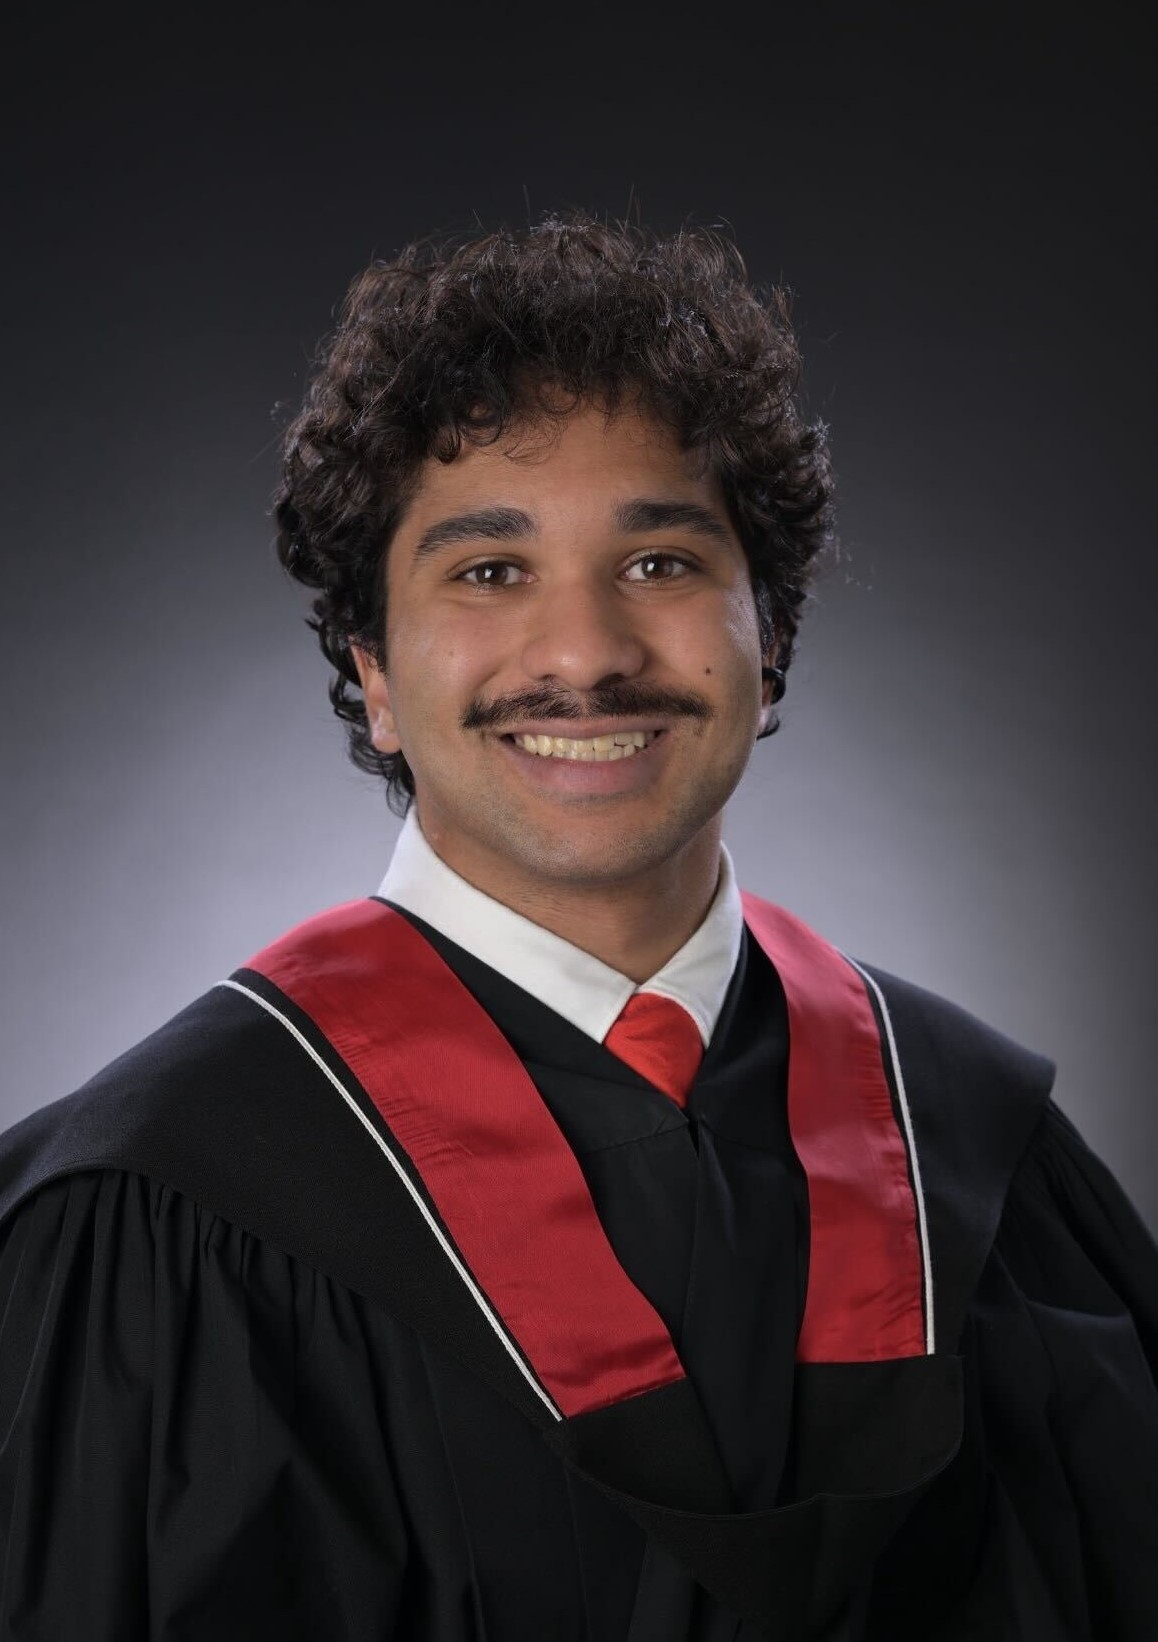
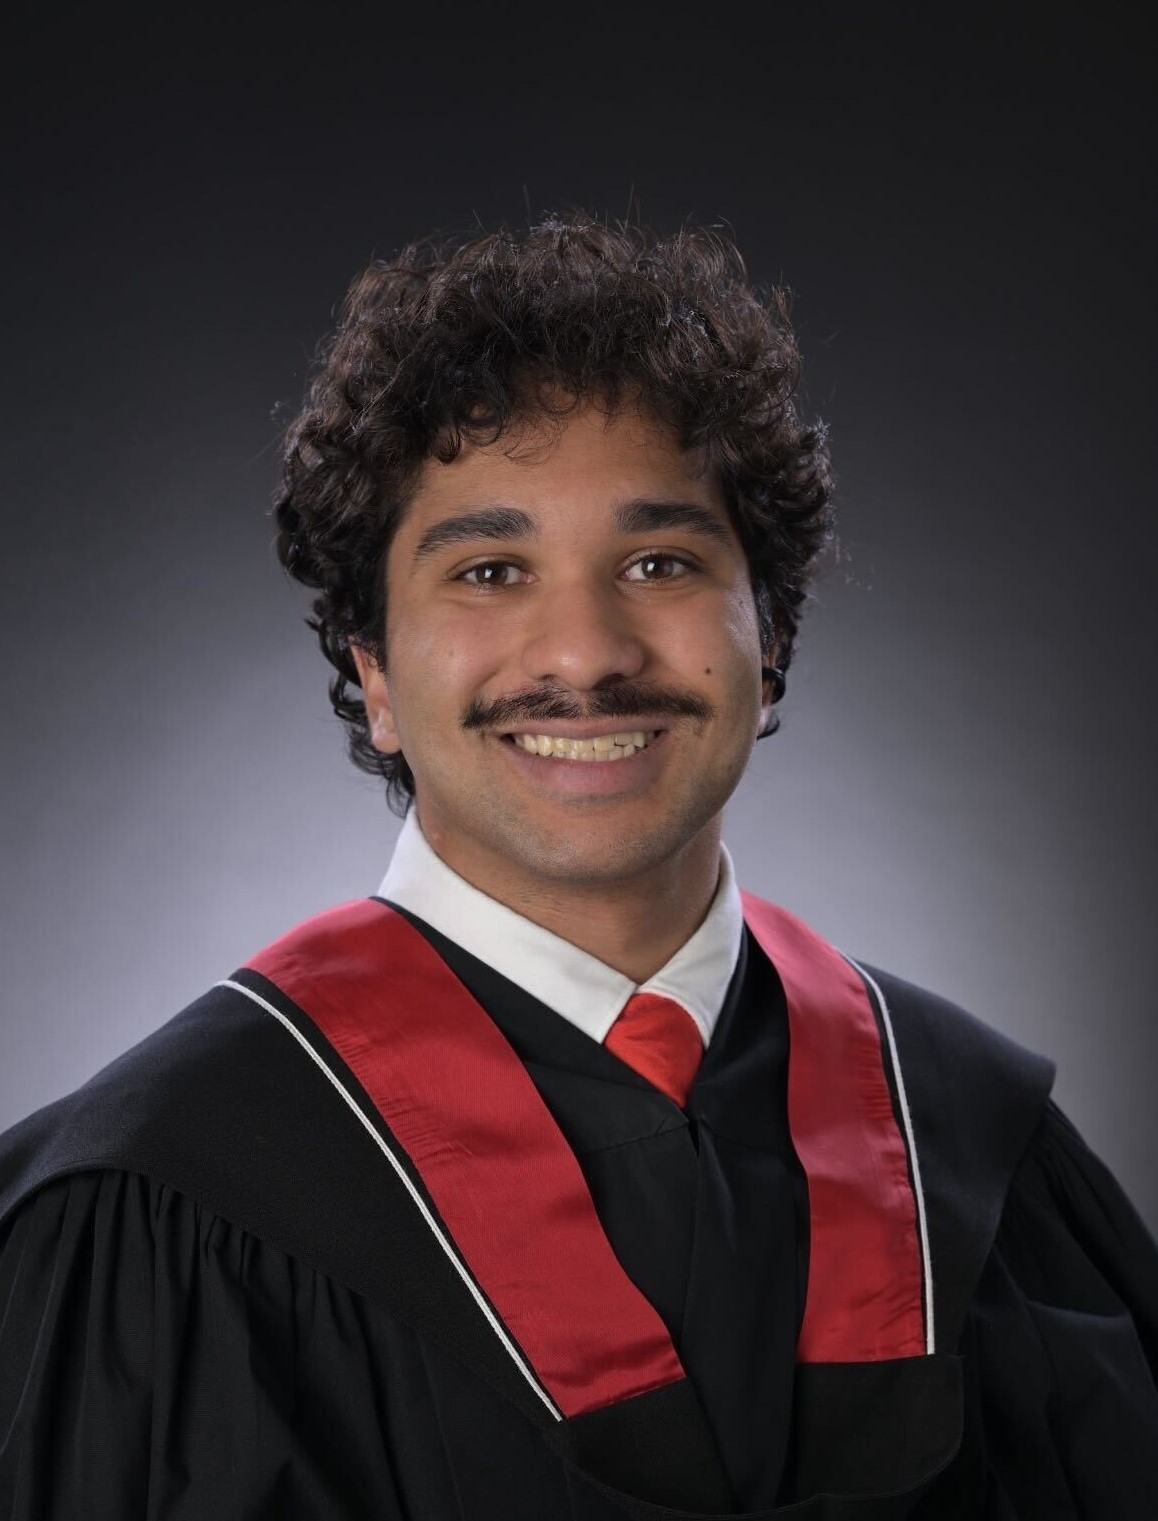
wip
adjusted photos and Marjan's title and changed student collaborators heading to just collaborators

Changed region(s): [[0.0, 0.1236, 1.0, 0.9579], [0.9326, 0.8652, 0.9637, 0.8961], [0.8394, 0.7725, 0.8705, 0.8034]]

diff --git a/_pages/people.md b/_pages/people.md
@@ -30,10 +30,10 @@ nav_order: 4
 ## Graduate Students
 {% include people-grid.liquid list=site.data.people.masters %}
 
-## Undergraduate Researchers
+## Undergraduate Assistants
 {% include people-grid.liquid list=site.data.people.undergrad %}
 
-## Student Collaborators
+## Collaborators
 {% include people-grid.liquid list=site.data.people.collaborators %}
 
 ## Alumni
